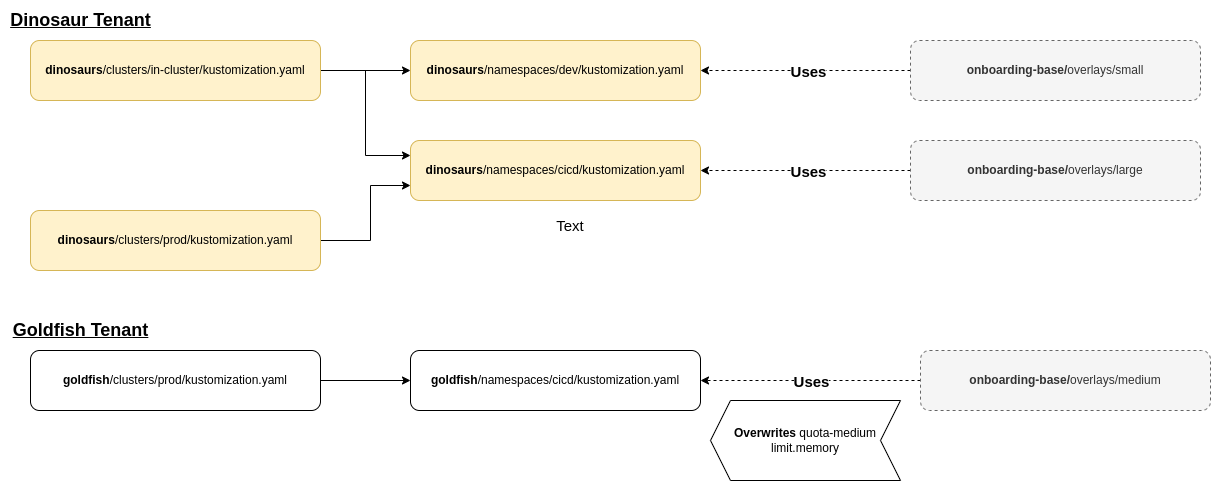
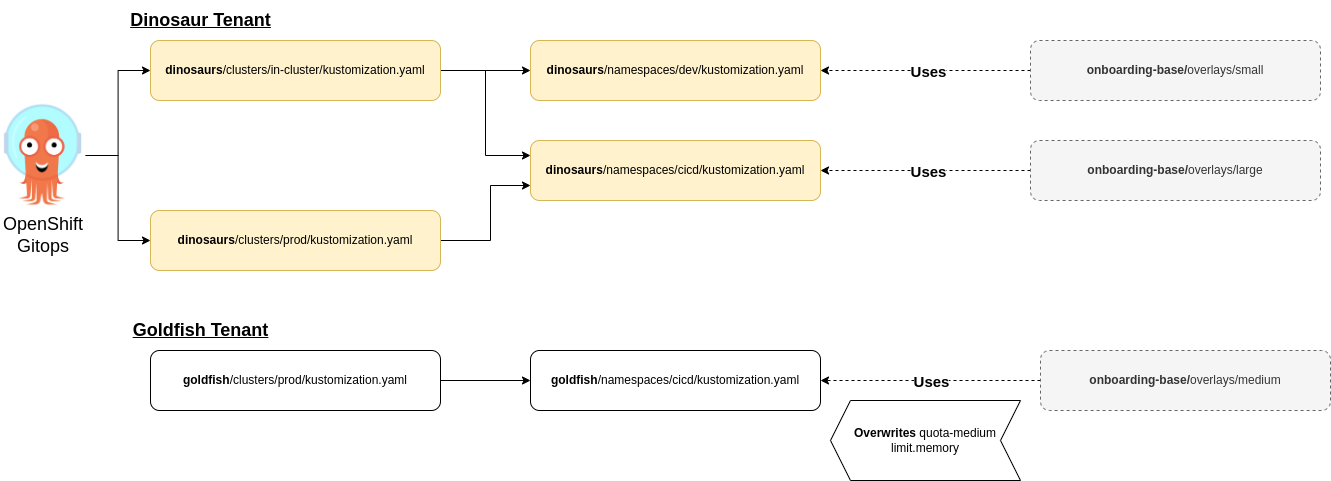
readme update

diff --git a/README.md b/README.md
@@ -16,8 +16,8 @@ helm (see [here](#tools-used)).
 
 ## General scheme
 
-The purpose of onboarding is to provide an automated way of creating
-required OpenShift resources like
+The purpose of platform onboarding is to provide an automated way of
+creating required OpenShift resources like
 
 - namespaces
 - quotas
@@ -26,7 +26,7 @@ required OpenShift resources like
 for developer teams and application operations teams.
 
 Yes we know this is not DevOps, but corresponds to things we see in
-real life. But what exactly is DevOps?
+real life. But what exactly is DevOps anyways?
 
 We defined two repositories:
 
@@ -34,7 +34,7 @@ We defined two repositories:
 - [Onboarding](https://github.com/tosmi-gitops/onboarding-base.git)
 
 [Onboarding-base](https://github.com/tosmi-gitops/onboarding-base.git)
-is used to provide manifests reused for all other tenants (see
+is used to provide manifests reused for all tenants (see
 [Nomenclature](#nomenclature)).
 
 [Onboarding](https://github.com/tosmi-gitops/onboarding-base.git)
@@ -47,10 +47,11 @@ contains manifest for the actual onboarding of tenants.
 
 ## Use cases considered
 
-1. As developer I would like to get a namespace in a DEV cluster
-2. As application ops I would like to create a namespace in the DEV cluster
-3. As application ops I would like to create a namespace in the PROD cluster
-4. As application ops I would like to overwrite namespace defaults depending on clusters
+1. As developer I would like to get namespaces in a DEV cluster
+2. As application ops I would like to create namespaces in the DEV cluster
+3. As application ops I would like to create namespaces in the PROD cluster
+4. As application ops I would like to overwrite namespace defaults
+   depending on clusters
 
 ## Requirements considered
 
@@ -99,3 +100,14 @@ The following diagram depicts connections between clusters, namespaces
 and the onboarding-base repository:
 
 ![connections](https://raw.githubusercontent.com/tosmi-gitops/onboarding/main/docs/connections.png)
+
+## OpenShift Gitops
+
+OpenShift GitOps leverages ArgoCD to sync Kubernetes manifests from a
+GIT repository to a cluster.
+
+An ArgoCD `Application` defines which repository to sync into which cluster.
+
+ArgoCD uses projects to organize differe
+
+Specifically we use ApplicationSets to
